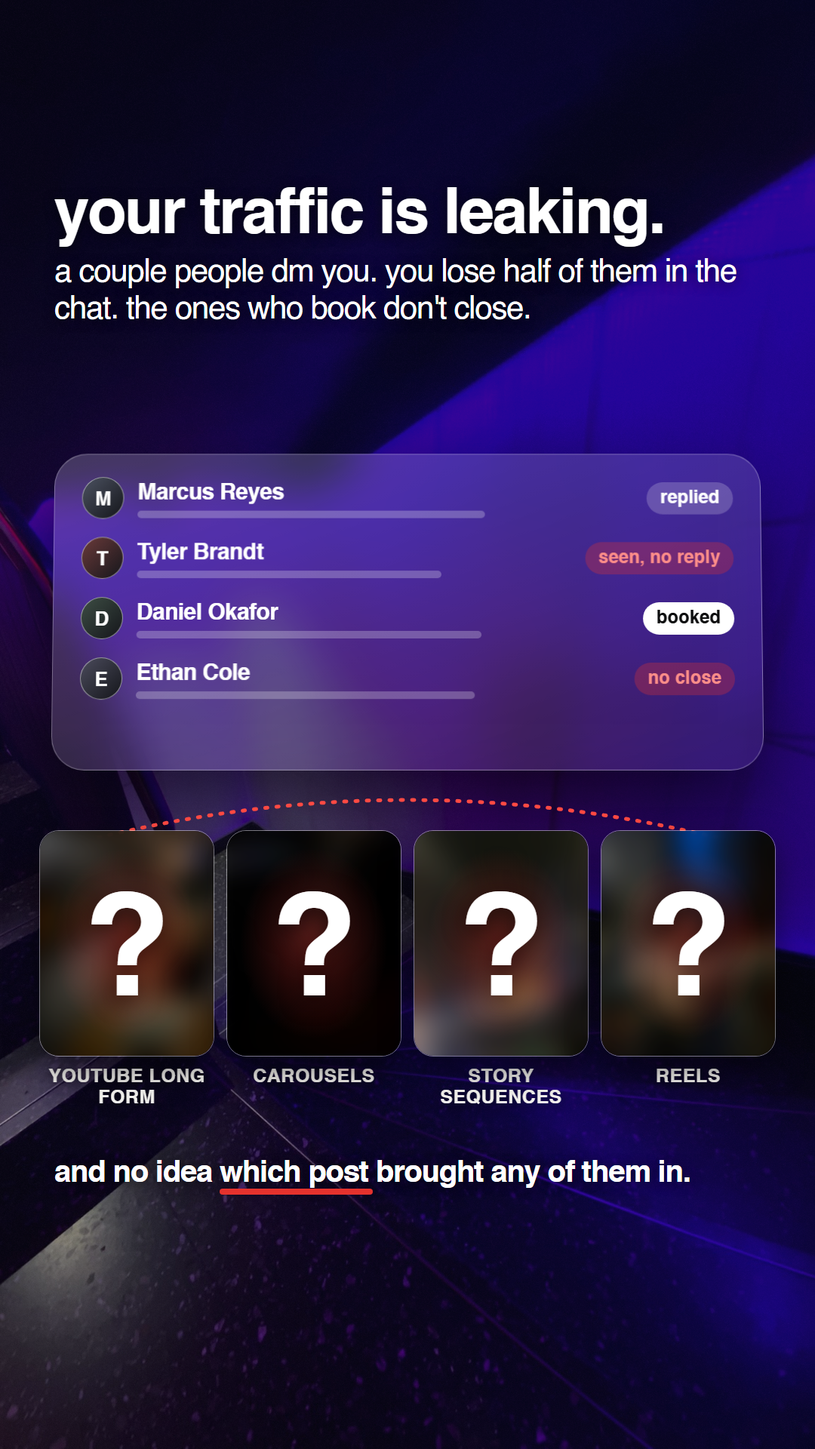
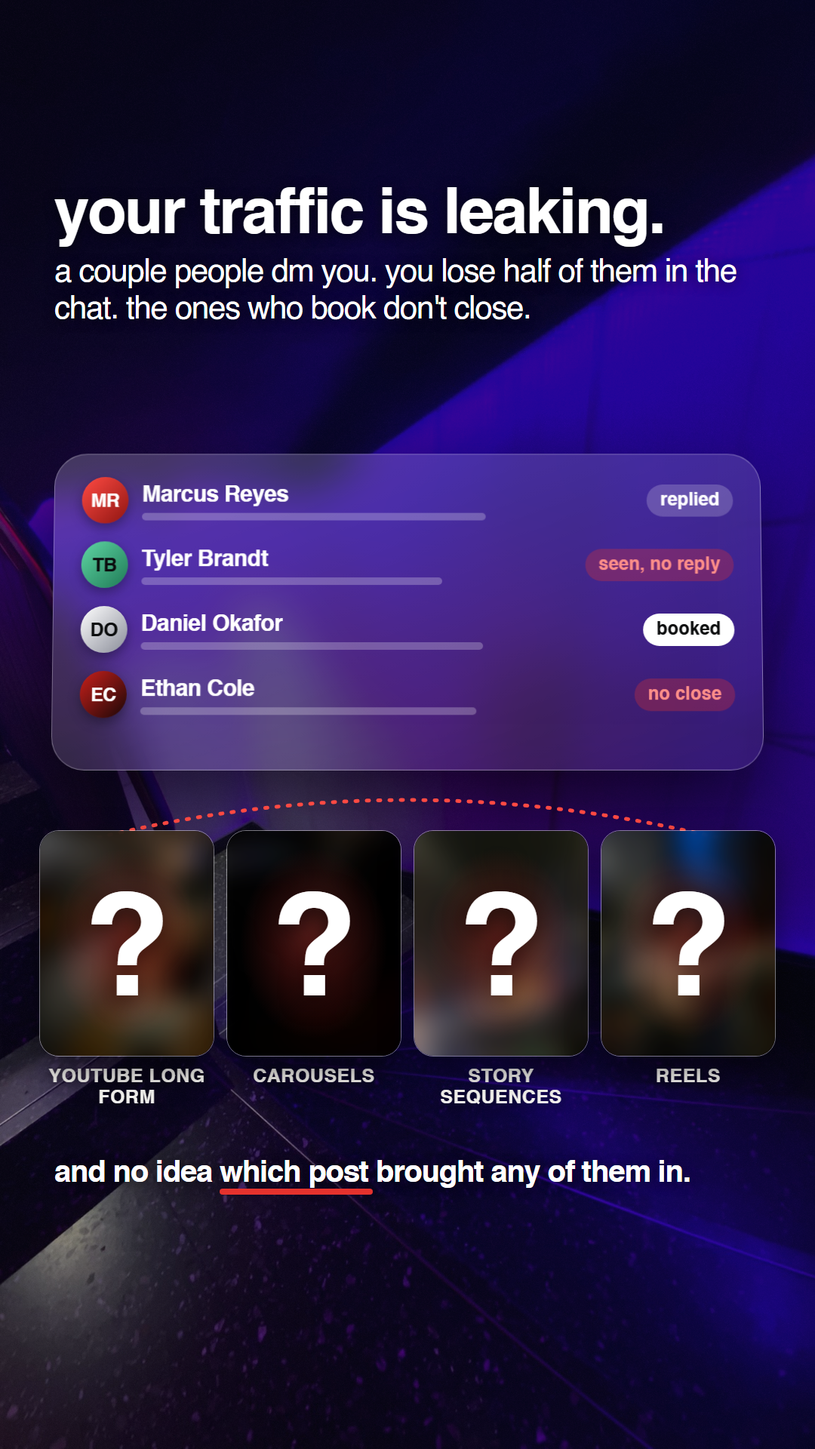
auto: checkpoint 2026-10-08 15:39:04

Changed region(s): [[0.0917, 0.3125, 0.5806, 0.5], [0.7028, 0.3125, 0.9167, 0.5]]

diff --git a/output/highlight-saas/claude-v2/r17_05.html b/output/highlight-saas/claude-v2/r17_05.html
@@ -1,0 +1,11 @@
+<!doctype html><meta charset="utf-8"><style>
+*{margin:0;padding:0;box-sizing:border-box}
+html,body{width:1080px;height:1920px;overflow:hidden;background:#000;font-family:Helvetica,Arial,sans-serif;color:#f4f3ef}
+.bg{position:absolute;inset:0;background-size:cover}
+.abs{position:absolute}
+.glow{position:absolute;inset:0;background:
+ radial-gradient(900px 700px at -8% 16%,rgba(138,75,63,.30),transparent 62%),
+ radial-gradient(900px 800px at 108% 66%,rgba(77,63,104,.26),transparent 60%)}
+b{font-weight:700}
+.label{font-size:28px;letter-spacing:.14em;text-transform:uppercase;color:#a9aaae;font-weight:700}
+</style><body><div class="bg" style="background-image:url('file:///C:/Users/Abdullah/Desktop/Pulsify-Brain/output/highlight-saas/claude-v2/img/r17_05.png')"></div><div class="abs" style="inset:0;background:rgba(11,12,13,.42)"></div><div class="abs" style="left:72px;top:236px;width:940px;"><div style="font-family:Helvetica,Arial,sans-serif;font-weight:700;color:#fff;font-size:84px;line-height:1.0;letter-spacing:-2.5px;margin-top:0px;text-shadow:0 2px 16px rgba(0,0,0,.55);">your traffic is leaking.</div><div style="font-family:Helvetica,Arial,sans-serif;font-weight:700;color:#fff;font-size:42px;line-height:1.16;letter-spacing:-1.3px;margin-top:14px;text-shadow:0 2px 16px rgba(0,0,0,.55);font-weight:400">a couple people dm you. you lose half of them in the chat. the ones who book don't close.</div></div><div class="abs" style="left:70px;top:600px;width:940px;height:420px;perspective:2000px"><div style="width:100%;height:100%;background:linear-gradient(160deg,rgba(255,255,255,.2),rgba(255,255,255,.07));backdrop-filter:blur(26px);border:1.5px solid rgba(255,255,255,.34);border-radius:44px;box-shadow:0 50px 100px rgba(0,0,0,.55);color:#fff;transform:rotateY(0deg) rotateX(3deg);padding:18px 36px"><div style="display:flex;align-items:center;gap:18px;padding:12px 0"><div style="width:62px;height:62px;border-radius:50%;background:linear-gradient(135deg,#ff4a43,#8f1511);display:grid;place-items:center;font-size:25px;font-weight:700;letter-spacing:-.5px;color:#fff;flex:none;box-shadow:0 6px 16px rgba(0,0,0,.35)">MR</div><div style="flex:1"><div style="font-size:30px;font-weight:700;letter-spacing:-.6px">Marcus Reyes</div><div style="height:10px;width:70%;background:rgba(255,255,255,.25);border-radius:5px;margin-top:8px"></div></div><div style="padding:5px 18px 9px;border-radius:999px;background:rgba(255,255,255,.2);color:#fff;font-size:24px;font-weight:700;white-space:nowrap">replied</div></div><div style="display:flex;align-items:center;gap:18px;padding:12px 0"><div style="width:62px;height:62px;border-radius:50%;background:linear-gradient(135deg,#5fd6a4,#1f7a56);display:grid;place-items:center;font-size:25px;font-weight:700;letter-spacing:-.5px;color:#0b0c0d;flex:none;box-shadow:0 6px 16px rgba(0,0,0,.35)">TB</div><div style="flex:1"><div style="font-size:30px;font-weight:700;letter-spacing:-.6px">Tyler Brandt</div><div style="height:10px;width:70%;background:rgba(255,255,255,.25);border-radius:5px;margin-top:8px"></div></div><div style="padding:5px 18px 9px;border-radius:999px;background:rgba(229,50,45,.3);color:#ff8e89;font-size:24px;font-weight:700;white-space:nowrap">seen, no reply</div></div><div style="display:flex;align-items:center;gap:18px;padding:12px 0"><div style="width:62px;height:62px;border-radius:50%;background:linear-gradient(135deg,#ffffff,#8a8d99);display:grid;place-items:center;font-size:25px;font-weight:700;letter-spacing:-.5px;color:#0b0c0d;flex:none;box-shadow:0 6px 16px rgba(0,0,0,.35)">DO</div><div style="flex:1"><div style="font-size:30px;font-weight:700;letter-spacing:-.6px">Daniel Okafor</div><div style="height:10px;width:70%;background:rgba(255,255,255,.25);border-radius:5px;margin-top:8px"></div></div><div style="padding:5px 18px 9px;border-radius:999px;background:#fff;color:#0b0c0d;font-size:24px;font-weight:700;white-space:nowrap">booked</div></div><div style="display:flex;align-items:center;gap:18px;padding:12px 0"><div style="width:62px;height:62px;border-radius:50%;background:linear-gradient(135deg,#c9201b,#1a0707);display:grid;place-items:center;font-size:25px;font-weight:700;letter-spacing:-.5px;color:#fff;flex:none;box-shadow:0 6px 16px rgba(0,0,0,.35)">EC</div><div style="flex:1"><div style="font-size:30px;font-weight:700;letter-spacing:-.6px">Ethan Cole</div><div style="height:10px;width:70%;background:rgba(255,255,255,.25);border-radius:5px;margin-top:8px"></div></div><div style="padding:5px 18px 9px;border-radius:999px;background:rgba(229,50,45,.3);color:#ff8e89;font-size:24px;font-weight:700;white-space:nowrap">no close</div></div></div></div><svg class="abs" style="left:0;top:1040px" width="1080" height="80" viewBox="0 0 1080 80"><path d="M130 70 Q 540 -30 950 70" fill="none" stroke="#ff4a43" stroke-width="5" stroke-dasharray="3 12" stroke-linecap="round"/></svg><div class="abs" style="left:30px;top:1100px;width:1020px;"><div style="display:flex;gap:16px;justify-content:center"><div style="width:232px"><div style="width:232px;height:300px;border-radius:26px;position:relative;overflow:hidden;border:1.5px solid rgba(255,255,255,.45);box-shadow:0 18px 40px rgba(0,0,0,.5)"><div style="position:absolute;inset:-30px;background:url(file:///C:/Users/Abdullah/Desktop/Pulsify-Brain/output/highlight-saas/claude-v2/img/r17_p0.png) center/cover;filter:blur(18px) brightness(.8)"></div><div style="position:absolute;inset:0;background:radial-gradient(closest-side,rgba(229,50,45,.35),transparent 85%)"></div><div style="position:absolute;inset:0;display:grid;place-items:center;font-size:190px;font-weight:700;color:#fff;text-shadow:0 6px 30px rgba(0,0,0,.5)">?</div></div><div style="text-align:center;font-size:25px;font-weight:700;letter-spacing:.02em;line-height:1.1;margin-top:12px;text-shadow:0 2px 16px rgba(0,0,0,.55)">YOUTUBE LONG FORM</div></div><div style="width:232px"><div style="width:232px;height:300px;border-radius:26px;position:relative;overflow:hidden;border:1.5px solid rgba(255,255,255,.45);box-shadow:0 18px 40px rgba(0,0,0,.5)"><div style="position:absolute;inset:-30px;background:url(file:///C:/Users/Abdullah/Desktop/Pulsify-Brain/output/highlight-saas/claude-v2/img/r17_p1.png) center/cover;filter:blur(18px) brightness(.8)"></div><div style="position:absolute;inset:0;background:radial-gradient(closest-side,rgba(229,50,45,.35),transparent 85%)"></div><div style="position:absolute;inset:0;display:grid;place-items:center;font-size:190px;font-weight:700;color:#fff;text-shadow:0 6px 30px rgba(0,0,0,.5)">?</div></div><div style="text-align:center;font-size:25px;font-weight:700;letter-spacing:.02em;line-height:1.1;margin-top:12px;text-shadow:0 2px 16px rgba(0,0,0,.55)">CAROUSELS</div></div><div style="width:232px"><div style="width:232px;height:300px;border-radius:26px;position:relative;overflow:hidden;border:1.5px solid rgba(255,255,255,.45);box-shadow:0 18px 40px rgba(0,0,0,.5)"><div style="position:absolute;inset:-30px;background:url(file:///C:/Users/Abdullah/Desktop/Pulsify-Brain/output/highlight-saas/claude-v2/img/r17_p2.png) center/cover;filter:blur(18px) brightness(.8)"></div><div style="position:absolute;inset:0;background:radial-gradient(closest-side,rgba(229,50,45,.35),transparent 85%)"></div><div style="position:absolute;inset:0;display:grid;place-items:center;font-size:190px;font-weight:700;color:#fff;text-shadow:0 6px 30px rgba(0,0,0,.5)">?</div></div><div style="text-align:center;font-size:25px;font-weight:700;letter-spacing:.02em;line-height:1.1;margin-top:12px;text-shadow:0 2px 16px rgba(0,0,0,.55)">STORY SEQUENCES</div></div><div style="width:232px"><div style="width:232px;height:300px;border-radius:26px;position:relative;overflow:hidden;border:1.5px solid rgba(255,255,255,.45);box-shadow:0 18px 40px rgba(0,0,0,.5)"><div style="position:absolute;inset:-30px;background:url(file:///C:/Users/Abdullah/Desktop/Pulsify-Brain/output/highlight-saas/claude-v2/img/r17_p3.png) center/cover;filter:blur(18px) brightness(.8)"></div><div style="position:absolute;inset:0;background:radial-gradient(closest-side,rgba(229,50,45,.35),transparent 85%)"></div><div style="position:absolute;inset:0;display:grid;place-items:center;font-size:190px;font-weight:700;color:#fff;text-shadow:0 6px 30px rgba(0,0,0,.5)">?</div></div><div style="text-align:center;font-size:25px;font-weight:700;letter-spacing:.02em;line-height:1.1;margin-top:12px;text-shadow:0 2px 16px rgba(0,0,0,.55)">REELS</div></div></div></div><div class="abs" style="left:72px;top:1530px;width:960px;"><div style="font-family:Helvetica,Arial,sans-serif;font-weight:700;color:#fff;font-size:40px;line-height:1.1;letter-spacing:-1.2px;margin-top:0px;text-shadow:0 2px 16px rgba(0,0,0,.55);">and no idea <span style="position:relative;display:inline-block">which post<span style="position:absolute;left:0;right:-6px;bottom:-9px;height:8px;background:#e5322d;border-radius:4px"></span></span> brought any of them in.</div></div></body>

diff --git a/output/highlight-saas/claude-v2/slides_r17.py b/output/highlight-saas/claude-v2/slides_r17.py
@@ -1,0 +1,221 @@
+"""Round 8 (founder notes after round 7). Overrides on slides_r7: slide 2 bullets + one-line copy, red chart on 3, no splitters on 4,
+reworded 5 with alias inbox, sans 7, flat 8, 'yo' greeting on 10, stacked red-wash 11, flat red tracking 12, logo-free 13/14,
+subtle logo as the first layer under everything else. Run: python slides_r8.py [02 03 ...]"""
+import sys
+from engine import *
+import slides_r7 as R7
+import slides_r5 as R5
+from slides_r7 import *
+from slides_r6 import brand, pngtile, coin, MARKU
+from slides_r5 import bz, rul, redw, carry, dim_photo, SH, SANS
+from slides_r4 import U, bgdiv, top, bottom, check_, xmark_
+import slides_r4 as R4
+
+RED2 = '#ff4a43'
+
+
+def logo_layer(body):
+    """Subtle logo as the first layer above the photo, below everything else."""
+    i = body.index('</div>') + len('</div>')
+    return body
+
+
+def ulb(t, size=52, weight=700, color='#fff'):
+    return (f'<span style="position:relative;display:inline-block;font-size:{size}px;font-weight:{weight};letter-spacing:{-size*.03:.1f}px;color:{color}">{t}'
+            f'<span style="position:absolute;left:0;right:0;bottom:-8px;height:7px;background:{RG};border-radius:4px"></span></span>')
+
+
+# ------------------------------------------------------------------ 02
+def s02():
+    img = prep_photo(20, 'r17_02.png', focus=(.5, .5))
+    bullets = ''.join(f'<div style="display:flex;align-items:center;gap:16px;margin-top:20px"><div style="width:14px;height:14px;border-radius:50%;background:{RED};flex:none"></div>{ulb(t, 46)}</div>'
+                      for t in ('trading', 'tiktok shop', 'e-commerce', 'amazon fba'))
+    # info groups, bigger instagram glyph
+    size = 128
+    yt = brand('youtube', '#FF0000', size=size)
+    ig = brand('instagram', 'linear-gradient(45deg,#f9a03f,#e1306c,#833ab4)', size=size).replace('width="74" height="74"', 'width="104" height="104"')
+    cal = brand('caldotcom', '#111827', size=size)
+    pay = [brand('stripe', '#635BFF', size=size), pngtile(U('whop.png'), size), pngtile(U('fanbasis.png'), size)]
+    groups = [(fan([yt, ig], size), 'content + audience'), (fan([cal, brand('calendly', '#006BFF', size=size)], size), 'sales calls'), (fan(pay, size, w=int(size * 2.05)), 'payments')]
+    info = '<div style="display:flex;gap:34px;align-items:flex-start">' + ''.join(f'<div>{g}<div style="text-align:center;margin-top:10px">{ulb(c, 28, 700)}</div></div>' for g, c in groups) + '</div>'
+    body = bgdiv(img) + top(1100, .7) + bottom(1000, .64)
+    body += at(236, f'<div style="font-size:78px;line-height:1.04;font-weight:700;letter-spacing:-3px;{SH}">you\'re already {R5.rul("good")} at<br>what you do.</div>', width=940)
+    body += at(440, bullets)
+    body += at(800, bz("running your own offer, teaching people exactly what you do, will make you more money than the thing you do now.", 44, lh=1.18, extra='font-weight:400'), width=940)
+    body += at(1030, f'<div style="font-size:50px;font-weight:700;letter-spacing:-2px;white-space:nowrap;{SH}">but {ulb("info is a whole business", 50)} on its own.</div>'
+               + bz("your own offer. your own unique mechanism. your own positioning.", 34, 12, extra='font-weight:400'), width=980)
+    body += at(1210, info)
+    body += at(1510, f'<div style="font-size:46px;font-weight:700;letter-spacing:-1.6px;white-space:nowrap;{SH}">so now you\'re running {ulb("2 businesses", 46)} at once.</div>', width=990)
+    return logo_layer(body)
+
+
+# ------------------------------------------------------------------ 03 (red chart)
+def revenue_red():
+    pts = [(0, 80), (10, 74), (20, 70), (30, 58), (40, 60), (50, 44), (60, 38), (70, 40), (80, 22), (90, 18), (100, 8)]
+    Wc, Hc = 860, 120
+    xy = lambda a, b: (a / 100 * Wc, b / 100 * Hc)
+    path = 'M' + ' L'.join(f'{xy(a,b)[0]:.0f} {xy(a,b)[1]:.0f}' for a, b in pts)
+    bars = ''.join(f'<rect x="{i*43+6}" y="{Hc-20-(8+ (i*7)%34)}" width="26" height="{8+(i*7)%34}" rx="5" fill="rgba(255,255,255,.14)"/>' for i in range(20))
+    return (f'<svg width="{Wc}" height="{Hc+10}" viewBox="0 0 {Wc} {Hc+10}"><defs><linearGradient id="rr" x1="0" y1="0" x2="0" y2="1"><stop offset="0" stop-color="{RED2}" stop-opacity=".55"/><stop offset="1" stop-color="{RED2}" stop-opacity="0"/></linearGradient></defs>{bars}'
+            f'<path d="{path} L{Wc} {Hc} L0 {Hc} Z" fill="url(#rr)"/><path d="{path}" fill="none" stroke="{RED2}" stroke-width="6" stroke-linecap="round" stroke-linejoin="round"/></svg>')
+
+
+def s03():
+    R7.revenue_card = revenue_red
+    return logo_layer(R7.s03())
+
+
+# ------------------------------------------------------------------ 04 (no splitters)
+def s04():
+    img = dim_photo(27, 'r17_04.png', blur=9, dark=.55)
+    items = ["you want to post, but you don't know what to say", "you know what to say, but nobody's watching",
+             "people are watching, but you don't know where to send them", "calls are booked, but you can't tell who's closing and who isn't"]
+    rows = ''.join(f'<div style="display:flex;gap:26px;align-items:flex-start;padding:24px 0">{xmark_(RED)}'
+                   f'<div style="font-size:48px;line-height:1.18;letter-spacing:-1.2px;font-weight:700;width:820px;{SH}">{t}</div></div>' for t in items)
+    body = bgdiv(img) + carry(R7.s03_carry(), 8, .2)
+    body += '<div class="abs" style="inset:0;background:radial-gradient(900px 700px at 100% 100%,rgba(229,50,45,.4),transparent 62%)"></div>'
+    body += at(440, f'<div style="font-size:112px;line-height:1;font-weight:700;letter-spacing:-4.4px;{SH}">it {rbox("breaks", 112, "0 24px 16px", 18)}<br>somewhere:</div>', width=940)
+    body += at(790, rows, width=936)
+    return logo_layer(body)
+
+
+# ------------------------------------------------------------------ 05 (alias inbox + bigger posts)
+def s05():
+    img = prep_photo(38, 'r17_05.png', focus=(.5, .5))
+    people = [('Marcus Reyes', 'replied', 'rgba(255,255,255,.2)', '#fff', '#4b5160'), ('Tyler Brandt', 'seen, no reply', 'rgba(229,50,45,.3)', '#ff8e89', '#6a3a3a'),
+              ('Daniel Okafor', 'booked', '#fff', GRAPH, '#3d4d44'), ('Ethan Cole', 'no close', 'rgba(229,50,45,.3)', '#ff8e89', '#4b4b5c')]
+    grads = {'Marcus Reyes': ('#ff4a43', '#8f1511', '#fff'), 'Tyler Brandt': ('#5fd6a4', '#1f7a56', '#0b0c0d'),
+             'Daniel Okafor': ('#ffffff', '#8a8d99', '#0b0c0d'), 'Ethan Cole': ('#c9201b', '#1a0707', '#fff')}
+    rows = ''
+    for al, st, bg, fg, avc in people:
+        g1, g2, ink = grads[al]
+        ini = ''.join(w[0] for w in al.split())
+        rows += (f'<div style="display:flex;align-items:center;gap:18px;padding:12px 0"><div style="width:62px;height:62px;border-radius:50%;background:linear-gradient(135deg,{g1},{g2});display:grid;place-items:center;font-size:25px;font-weight:700;letter-spacing:-.5px;color:{ink};flex:none;box-shadow:0 6px 16px rgba(0,0,0,.35)">{ini}</div>'
+                 f'<div style="flex:1"><div style="font-size:30px;font-weight:700;letter-spacing:-.6px">{al}</div><div style="height:10px;width:70%;background:rgba(255,255,255,.25);border-radius:5px;margin-top:8px"></div></div>'
+                 f'<div style="padding:5px 18px 9px;border-radius:999px;background:{bg};color:{fg};font-size:24px;font-weight:700;white-space:nowrap">{st}</div></div>')
+    labels = ['YOUTUBE LONG FORM', 'CAROUSELS', 'STORY SEQUENCES', 'REELS']
+    posts = ''
+    for i, (pid, lb) in enumerate(zip((20, 31, 37, 41), labels)):
+        pth = prep_photo(pid, f'r17_p{i}.png', focus=(.5, .5))
+        posts += (f'<div style="width:232px"><div style="width:232px;height:300px;border-radius:26px;position:relative;overflow:hidden;border:1.5px solid rgba(255,255,255,.45);box-shadow:0 18px 40px rgba(0,0,0,.5)">'
+                  f'<div style="position:absolute;inset:-30px;background:url(file:///{pth}) center/cover;filter:blur(18px) brightness(.8)"></div>'
+                  f'<div style="position:absolute;inset:0;background:radial-gradient(closest-side,rgba(229,50,45,.35),transparent 85%)"></div>'
+                  f'<div style="position:absolute;inset:0;display:grid;place-items:center;font-size:190px;font-weight:700;color:#fff;text-shadow:0 6px 30px rgba(0,0,0,.5)">?</div></div>'
+                  f'<div style="text-align:center;font-size:25px;font-weight:700;letter-spacing:.02em;line-height:1.1;margin-top:12px;{SH}">{lb}</div></div>')
+    body = bgdiv(img) + '<div class="abs" style="inset:0;background:rgba(11,12,13,.42)"></div>'
+    body += at(236, bz("your traffic is leaking.", 84, lh=1.0) + bz("a couple people dm you. you lose half of them in the chat. the ones who book don't close.", 42, 14, lh=1.16, extra='font-weight:400'), width=940)
+    body += R5.card(rows, 600, 420, 0, 70, 940).replace('padding:44px 46px', 'padding:18px 36px')
+    body += (f'<svg class="abs" style="left:0;top:1040px" width="1080" height="80" viewBox="0 0 1080 80"><path d="M130 70 Q 540 -30 950 70" fill="none" stroke="#ff4a43" stroke-width="5" stroke-dasharray="3 12" stroke-linecap="round"/></svg>')
+    body += at(1100, f'<div style="display:flex;gap:16px;justify-content:center">{posts}</div>', left=30, width=1020)
+    body += at(1530, bz("and no idea " + rul("which post") + " brought any of them in.", 40, lh=1.1), width=960)
+    return logo_layer(body)
+
+
+# ------------------------------------------------------------------ 07 (sans, visible)
+def s07():
+    img = prep_photo(26, 'r17_07.png', focus=(.5, .5))
+    body = bgdiv(img) + top(1300, .75)
+    body += at(250, bz("that's where most people", 74, lh=1.04) + bz(rul("plateau."), 118, 4, lh=1.0, extra='letter-spacing:-5px'), width=960)
+    body += at(640, bz("then they pick the " + redw("main business") + ", because that's what keeps food on the table.", 50, lh=1.14), width=930)
+    body += at(930, bz("and the info side " + rul("dies quietly."), 62, lh=1.1), width=930)
+    body += at(1130, bz("none of that is your fault.", 60, lh=1.1), width=930)
+    return logo_layer(body)
+
+
+# ------------------------------------------------------------------ 08 (flat)
+def s08():
+    img = dim_photo(26, 'r17_08.png', blur=9, dark=.5)
+    def row(rank, wname, num, hot=False):
+        if hot:
+            return (f'<div style="display:flex;align-items:center;gap:20px;border-radius:26px;padding:14px 24px;margin-top:16px;background:linear-gradient(90deg,rgba(229,50,45,.45),rgba(229,50,45,.1));border:2px solid {RED}">'
+                    f'<div style="font-size:34px;font-weight:700;width:60px">new</div><div style="flex:1;font-size:26px;font-weight:700;color:#ffb3af">new face &middot; new idea</div>'
+                    f'<div style="font-size:42px;font-weight:700;letter-spacing:-1.5px">2k <span style="color:{RED2}">&rarr; 18k+</span></div></div>')
+        return (f'<div style="display:flex;align-items:center;gap:20px;padding:12px 8px;border-bottom:1.5px solid rgba(255,255,255,.12)"><div style="font-size:34px;font-weight:700;width:60px;opacity:.7">{rank}</div>'
+                f'<div style="flex:1"><div style="height:14px;width:{wname}%;background:rgba(255,255,255,.55);border-radius:7px"></div></div>'
+                f'<div style="font-size:42px;font-weight:700;letter-spacing:-1.5px;opacity:.9">{num}</div></div>')
+    inner = ('<div style="font-size:26px;font-weight:700;letter-spacing:.14em;text-transform:uppercase;opacity:.7;margin-bottom:6px">top of your niche</div>'
+             + row('#1', 54, '1.4M') + row('#2', 46, '980k') + row('#3', 50, '760k') + row('#4', 42, '540k')
+             + '<div style="display:flex;align-items:center;gap:14px;margin:16px 0 0 70px;opacity:.75"><div style="flex:1;border-top:3px dashed rgba(255,255,255,.4)"></div><div style="font-size:24px;font-weight:700">every month</div><div style="flex:1;border-top:3px dashed rgba(255,255,255,.4)"></div></div>'
+             + row('', 0, '', True))
+    body = bgdiv(img) + top(700, .6)
+    body += '<div class="abs" style="inset:0;background:radial-gradient(900px 600px at 0% 0%,rgba(229,50,45,.35),transparent 62%)"></div>'
+    body += at(232, f'<div style="font-size:84px;line-height:1.02;font-weight:700;letter-spacing:-3.2px;{SH}">here\'s what<br>{rbox("most people miss.", 84, "0 22px 14px", 16)}</div>' + bz("the top of every niche is 3 or 4 names.", 46, 22, extra='font-weight:400'), width=960)
+    body += at(640, inner, width=936)
+    body += at(1190, bz("but every month, a new face breaks in.", 54, lh=1.08)
+               + bz("people follow someone they don't feel " + rul("below."), 52, 26, lh=1.1)
+               + f'<div style="margin-top:26px;font-size:58px;font-weight:700;letter-spacing:-2px;line-height:1.15;{SH}">you don\'t have to be a guru.<br>you just have to sound like {rbox("you.", 58, "0 20px 12px")}</div>', width=960)
+    return logo_layer(body)
+
+
+# ------------------------------------------------------------------ 10 (yo)
+def s10():
+    body = R7.s10().replace('hey, how can i help you today?', 'yo, what are we cooking today?')
+    return logo_layer(body)
+
+
+# ------------------------------------------------------------------ 11 (stacked, red wash, flat)
+def s11():
+    img = dim_photo(49, 'r17_11.png', focus=(.72, .5), blur=8, dark=.55)
+    rows = ''
+    for lab_, line, cash, wd in (('setter', '312 dms &middot; 58 calls booked', '', 100), ('setter', '287 dms &middot; 49 calls booked', '', 84), ('closer', '78 calls &middot; 79% showed &middot; 23% closed', '', 100)):
+        rows += (f'<div style="display:flex;align-items:center;gap:20px;margin-top:24px"><div style="width:58px;height:58px;border-radius:50%;background:rgba(255,255,255,.14);border:1.5px solid rgba(255,255,255,.5);display:grid;place-items:center;flex:none">'
+                 f'<svg width="32" height="32" viewBox="0 0 38 38"><circle cx="19" cy="14" r="7" fill="#fff"/><path d="M5 34q14-22 28 0z" fill="#fff"/></svg></div>'
+                 f'<div style="flex:1"><div style="font-size:32px;font-weight:700;letter-spacing:-.6px">{lab_}</div><div style="font-size:25px;opacity:.8;margin-top:3px">{line}</div>'
+                 f'<div style="height:9px;border-radius:5px;background:rgba(255,255,255,.14);margin-top:9px"><div style="height:9px;border-radius:5px;width:{wd}%;background:{RG}"></div></div></div></div>')
+    body = bgdiv(img)
+    body += '<div class="abs" style="inset:0;background:radial-gradient(1000px 800px at 100% 55%,rgba(229,50,45,.5),transparent 62%),radial-gradient(800px 600px at 0% 100%,rgba(229,50,45,.3),transparent 60%)"></div>'
+    body += at(236, bz("then the sales side.", 84, lh=1.0)
+               + f'<div style="display:flex;gap:18px;align-items:center;margin-top:24px">{check_(GREEN)}{bz("you see who\'s closing.", 50)}</div>'
+               + f'<div style="display:flex;gap:18px;align-items:center;margin-top:10px">{xmark_(RED)}{bz("who\'s " + rul("not."), 50)}</div>', width=940)
+    body += at(640, f'<div style="display:flex;align-items:center;gap:16px">{coin(54)}<div style="font-size:36px;font-weight:700;letter-spacing:-.8px">sales</div></div>{rows}', width=936)
+    body += at(1120, f'<div style="font-size:44px;font-weight:700;letter-spacing:-1px;opacity:.9">CC</div><div style="font-size:150px;font-weight:700;letter-spacing:-7px;color:{RED2};line-height:.95;text-shadow:0 0 70px rgba(229,50,45,.7)">$96,000</div>', width=960)
+    bi11 = lambda x: f'<div style="display:flex;gap:16px;align-items:center;margin-top:12px"><div style="width:14px;height:14px;border-radius:50%;background:{RED};flex:none"></div><div style="font-size:50px;font-weight:400;font-style:italic;letter-spacing:-1.2px;{SH}">{x}</div></div>'
+    body += at(1440, bi11("who's hitting their calls?") + bi11("who's hitting your numbers?") + bz("no more guessing what happened on a call. no scripts to write yourself.", 34, 22, lh=1.2, extra='font-weight:400'), width=940)
+    return logo_layer(body)
+
+
+# ------------------------------------------------------------------ 12 (flat, red)
+def s12():
+    img = dim_photo(49, 'r17_12.png', focus=(.72, .5), blur=8, dark=.6)
+    pts = [(0, 100), (12, 86), (25, 71), (40, 60), (55, 52), (70, 41), (85, 34), (100, 31)]
+    Wc, Hc = 936, 250
+    xy = lambda a, b: (a / 100 * Wc, 20 + (100 - b) / 100 * (Hc - 40))
+    path = 'M' + ' L'.join(f'{xy(a, b)[0]:.0f} {xy(a, b)[1]:.0f}' for a, b in pts)
+    chart = (f'<svg width="{Wc}" height="{Hc+40}" viewBox="0 0 {Wc} {Hc+40}"><defs><linearGradient id="g" x1="0" y1="0" x2="0" y2="1"><stop offset="0" stop-color="{RED2}" stop-opacity=".6"/><stop offset="1" stop-color="{RED2}" stop-opacity="0"/></linearGradient></defs>'
+             f'<path d="{path} L{Wc} {Hc-20} L0 {Hc-20} Z" fill="url(#g)"/><path d="{path}" fill="none" stroke="{RED2}" stroke-width="9" stroke-linecap="round" stroke-linejoin="round"/>'
+             + ''.join(f'<line x1="{x}" y1="10" x2="{x}" y2="{Hc-20}" stroke="rgba(255,255,255,.14)" stroke-width="2"/><text x="{x if 0<x<Wc-5 else (6 if x==0 else Wc-6)}" y="{Hc+22}" text-anchor="{"middle" if 0<x<Wc-5 else ("start" if x==0 else "end")}" font-family="Helvetica,Arial" font-size="26" fill="rgba(255,255,255,.7)">{l}</text>' for x, l in ((0, 'start'), (234, '25%'), (468, '50%'), (702, '75%'), (Wc, 'end')))
+             + '</svg>')
+    stats = ''.join(f'<div style="flex:1"><div style="display:inline-block;font-size:66px;font-weight:700;letter-spacing:-2.5px;line-height:1;color:{c};{'background:#fff;padding:2px 14px 8px;border-radius:14px;' if c == GRAPH else ''}">{v}</div><div style="font-size:23px;font-weight:700;letter-spacing:.08em;text-transform:uppercase;opacity:.75;margin-top:6px">{l}</div></div>'
+                    for v, l, c in (('41.2k', 'watched', '#fff'), ('3.8k', 'clicked', '#fff'), ('212', 'booked', '#fff'), ('$64k', 'paid', GRAPH)))
+    bl = lambda t: f'<div style="margin-top:10px">{rbox(t, 40, "2px 20px 12px", 12)}</div>'
+    bi = lambda t: f'<div style="display:flex;gap:16px;align-items:center;margin-top:14px"><div style="width:14px;height:14px;border-radius:50%;background:{RED};flex:none"></div><div style="font-size:48px;font-weight:400;font-style:italic;letter-spacing:-1.4px;{SH}">{t}</div></div>'
+    body = bgdiv(img)
+    body += '<div class="abs" style="inset:0;background:radial-gradient(1000px 800px at 100% 40%,rgba(229,50,45,.45),transparent 62%)"></div>'
+    body += at(236, f'<div style="font-size:84px;line-height:1.04;font-weight:700;letter-spacing:-3.2px;{SH}">every post is<br>{rbox("tracked.", 84, "0 24px 14px", 16)}</div>' + bl("watched") + bl("clicked") + bl("booked") + bl("paid"), width=940)
+    body += at(790, f'<div style="display:flex;align-items:center;gap:16px">{coin(50)}<div><div style="font-size:23px;font-weight:700;letter-spacing:.1em;text-transform:uppercase;opacity:.7">youtube video tracking</div>'
+                    f'<div style="font-size:30px;font-weight:700;letter-spacing:-.8px;margin-top:2px">how i would start from zero</div></div></div><div style="margin-top:6px">{chart}</div><div style="display:flex;gap:10px;margin-top:10px">{stats}</div>', width=936)
+    body += at(1440, f'<div style="display:inline-block;position:relative;font-size:42px;font-weight:400;letter-spacing:-1px;{SH}">everything is tracked to the brim:<span style="position:absolute;left:0;right:0;bottom:-10px;height:9px;background:{RED};border-radius:4px"></span></div>' + bi("where they are") + bi("how they land") + bi("when they first start watching")
+              + bz("all the way until they buy from you, and we keep retargeting them until they buy again.", 30, 16, lh=1.15, extra='font-weight:400'), width=960)
+    return logo_layer(body)
+
+
+# ------------------------------------------------------------------ 13 / 14 (no logo, red wash)
+def wash2():
+    return '<div class="abs" style="inset:0;background:radial-gradient(900px 700px at 0% 100%,rgba(229,50,45,.5),transparent 62%),radial-gradient(800px 700px at 100% 0%,rgba(229,50,45,.28),transparent 60%)"></div>'
+
+
+def s13_body9():
+    return at(262, bz("none of this was built overnight.", 90, lh=1.02)
+              + f'<div style="margin-top:38px;font-size:56px;font-weight:700;letter-spacing:-1.8px;line-height:1.1;{SH}">{ulb("every framework was tested first.", 56)}</div>'
+              + bz("it's a one-place stop that does the heavy lifting.", 44, 40, extra='font-weight:400')
+              + f'<div style="margin-top:14px;font-size:50px;font-weight:700;letter-spacing:-1.6px;{SH}">{ulb("you keep doing what you\'re good at.", 50)}</div>', width=940)
+
+
+def s13():
+    return bgdiv(prep_photo(18, 'r17_13.png', focus=(.5, .5))) + top(900, .62) + wash2() + s13_body9()
+
+
+SL = {'02': s02, '03': s03, '04': s04, '05': s05, '07': s07, '08': s08, '10': s10, '11': s11, '12': s12, '13': s13}
+if __name__ == '__main__':
+    for n in (sys.argv[1:] or list(SL)):
+        render('r17_' + n, page(SL[n]()))

diff --git a/output/highlight-saas/claude-v2/make_r17.py b/output/highlight-saas/claude-v2/make_r17.py
@@ -1,0 +1,18 @@
+"""Slide 5: gradient initials as the avatars (no face photos). Patches slides_r10.py in place and re-renders slide 5."""
+t = open('slides_r10.py', encoding='utf-8').read()
+a = t.index("    rows = ''\n    for al, st, bg, fg, avc in people:")
+b = t.index("    labels = [")
+new = '''    grads = {'Marcus Reyes': ('#ff4a43', '#8f1511', '#fff'), 'Tyler Brandt': ('#5fd6a4', '#1f7a56', '#0b0c0d'),
+             'Daniel Okafor': ('#ffffff', '#8a8d99', '#0b0c0d'), 'Ethan Cole': ('#c9201b', '#1a0707', '#fff')}
+    rows = ''
+    for al, st, bg, fg, avc in people:
+        g1, g2, ink = grads[al]
+        ini = ''.join(w[0] for w in al.split())
+        rows += (f'<div style="display:flex;align-items:center;gap:18px;padding:12px 0"><div style="width:62px;height:62px;border-radius:50%;background:linear-gradient(135deg,{g1},{g2});display:grid;place-items:center;font-size:25px;font-weight:700;letter-spacing:-.5px;color:{ink};flex:none;box-shadow:0 6px 16px rgba(0,0,0,.35)">{ini}</div>'
+                 f'<div style="flex:1"><div style="font-size:30px;font-weight:700;letter-spacing:-.6px">{al}</div><div style="height:10px;width:70%;background:rgba(255,255,255,.25);border-radius:5px;margin-top:8px"></div></div>'
+                 f'<div style="padding:5px 18px 9px;border-radius:999px;background:{bg};color:{fg};font-size:24px;font-weight:700;white-space:nowrap">{st}</div></div>')
+'''
+t = t[:a] + new + t[b:]
+t = t.replace("render('r10_'", "render('r17_'").replace("'r10_", "'r17_")
+open('slides_r17.py', 'w', encoding='utf-8').write(t)
+print('ok')

diff --git a/wiki/content-engine/pulsify-saas-highlight-final-2026-10-08.md b/wiki/content-engine/pulsify-saas-highlight-final-2026-10-08.md
@@ -20,7 +20,7 @@ The highlight is a shiny-object pre-launch shown to cold prospects. The founder'
 2. "you're already good at what you do." Underlined bullets: trading, tiktok shop, e-commerce, amazon fba. "running your own offer, teaching people exactly what you do, will make you more money than the thing you do now." "but info is a whole business on its own." "your own offer. your own unique mechanism. your own positioning." Folded icon groups: YouTube + Instagram (content + audience), Cal.com + Calendly (sales calls), Stripe + Whop + Fanbasis (payments). "so now you're running 2 businesses at once."
 3. "the whole chain." Six cards: content (top, middle, bottom of funnel side by side), personal brand (people start buying into you), traffic (runners heading right), landing page (vsl, webinar, profile funnel, ascension, challenge), sales team (closer, setter, manager), cash in the bank (Stripe, Whop, Fanbasis). Closing text on a revenue-chart card: "most people have never run it. some don't even know what a kpi is. and that's fine. nobody teaches you this part."
 4. Same photo as 3, blurred. "it breaks somewhere:" with four red-X lines (post / nobody watching / where to send / who is closing).
-5. "your traffic is leaking." Alias inbox (Marcus Reyes, Tyler Brandt, Daniel Okafor, Ethan Cole: replied, seen no reply, booked, no close). Four blurred post cards with a big ?, labelled YOUTUBE LONG FORM, CAROUSELS, STORY SEQUENCES, REELS. "and no idea which post brought any of them in."
+5. "your traffic is leaking." Alias inbox with gradient-initial avatars, founder's call, no face photos (Marcus Reyes, Tyler Brandt, Daniel Okafor, Ethan Cole: replied, seen no reply, booked, no close). Four blurred post cards with a big ?, labelled YOUTUBE LONG FORM, CAROUSELS, STORY SEQUENCES, REELS. "and no idea which post brought any of them in."
 6. Approved as is. Brez layout on the slide 5 photo, blurred, no ghost text: "so you try harder." red X list, "you start copying the big names." black box with red "their", "MEANWHILE THE THING THAT PAYS YOU GETS LESS OF YOUR TIME."
 7. "that's where most people plateau." "then they pick the main business, because that's what keeps food on the table." "and the info side dies quietly." "none of that is your fault."
 8. "here's what most people miss." "the top of every niche is 3 or 4 names." Unnamed niche leaderboard plus a "new face, new idea" climbing 2k to 18k+. "but every month, a new face breaks in." "people follow someone they don't feel below." "you don't have to be a guru. you just have to sound like you."
@@ -43,7 +43,6 @@ The highlight is a shiny-object pre-launch shown to cold prospects. The founder'
 
 ## Open items
 
-- Slide 5 avatars are initials. Real face photos (licensed or provided) are still wanted.
 - Slide 9 video and its motion graphic are founder-owned and not built.
 
 ## Connections

diff --git a/claude-memory/MEMORY.md b/claude-memory/MEMORY.md
@@ -123,7 +123,7 @@
 - [Main-only releases](feedback_main_only_releases.md) - HARD 2026-10-01: pulsify-saas main == live; release only from a clean pushed main; merge any peer's deployed...
 - [Portal feedback round 1](project_portal_feedback_round.md) - 2026-10-03 LIVE Pages 28461892: new Home, Funnel, YouTube/IG deck, calendar planner, Brand folders; owed list inside
 - [MVP first client plan](project_mvp_first_client.md) - 2026-10-02: sell done-for-you service, portal is the window; payments out of scope; plan at wiki/synthesis/mvp-plan-2026-10-02.md
-- [SaaS story launch](project_saas_story_launch.md) - 2026-10-08 FINAL: 13-slide highlight approved (copy + style rules in wiki/content-engine/pulsify-saas-highlight-final-2026-10-08.md); open: slide 5 faces, slide 9 video; outreach next
+- [SaaS story launch](project_saas_story_launch.md) - 2026-10-08 FINAL: 13-slide highlight approved (copy + style rules in wiki/content-engine/pulsify-saas-highlight-final-2026-10-08.md); open: slide 9 video only; outreach next
 - [Brand logo kit](reference_brand_logo.md) - coin mark at brand/logo/, old P-Media logo retired; use in every design
 - [Perfection standard](feedback_perfection_standard.md) - HARD 2026-10-07: no known flaws shipped; zoom-inspect before showing; procedure saved at wiki/playbooks/story-sequence-design-procedure.md
 - [Never photo 9](feedback_never_photo_9.md) - HARD 2026-10-08: never use library photo id 9 (IMG_8529, headphones to camera) anywhere

diff --git a/claude-memory/project_saas_story_launch.md b/claude-memory/project_saas_story_launch.md
@@ -35,4 +35,4 @@ New05: “you post a video. you see the views. but what happened after?” Lands
 Truth boundary: UTM captures tagged clicks, not the identity/watch history of everyone inside YouTube/Instagram. Wistia embedded on the funnel page records watch activity (funnel-integrations.js mountWistia/flushWatch; functions/event.js). Identity joins page/watch events after identification; bookings/matched payments follow. Cash is first tagged source and net of refunds. Do not call native social retention a UTM feature, promise any external webinar player's tracking, universal identity, untagged attribution or measured results. Watch-strip visual is conceptual. Capability evidence and limitations saved in current output/tracking-evidence.md and shared guidance.
 
 ## Final (2026-10-08)
-Founder approved the 13-slide highlight (slide 14 deleted, slide 9 his video). Copy and style rules: wiki/content-engine/pulsify-saas-highlight-final-2026-10-08.md; renders output/highlight-saas/claude-v2/final-r16/. Open: slide 5 face photos, slide 9 video. Next for founder: outreach section (not started).
+Founder approved the 13-slide highlight (slide 14 deleted, slide 9 his video). Copy and style rules: wiki/content-engine/pulsify-saas-highlight-final-2026-10-08.md; renders output/highlight-saas/claude-v2/final-r16/. Open: slide 9 video only (slide 5 uses gradient initials by founder choice). Next for founder: outreach section (not started).

diff --git a/AGENT_CHAT.md b/AGENT_CHAT.md
@@ -509,3 +509,4 @@ Founder: undo the G1 rebuild. g06-g08 + g1style.py moved to claude-v2/archive-re
 - 2026-10-08 Claude: slide 1 = U3 (type behind founder, small logo above, copy 'i've been working on this all year, every day, all day. i noticed something every creator i've worked with has in common. everyone is stuck on the same problem.'); set in final-r16/ (source slide1_mockups8.py).
 - 2026-10-08 Claude: slide 1 switched to U2 (one-line sentence behind founder) with 'all day every day.'; final-r16/01.png.
 - 2026-10-08 Claude: slide 6 ghost headline removed (slides_r7.py s06), final-r16/06.png updated.
+- 2026-10-08 Claude: slide 5 avatars = gradient initials (slides_r17.py via make_r17.py), final-r16/05.png updated.
